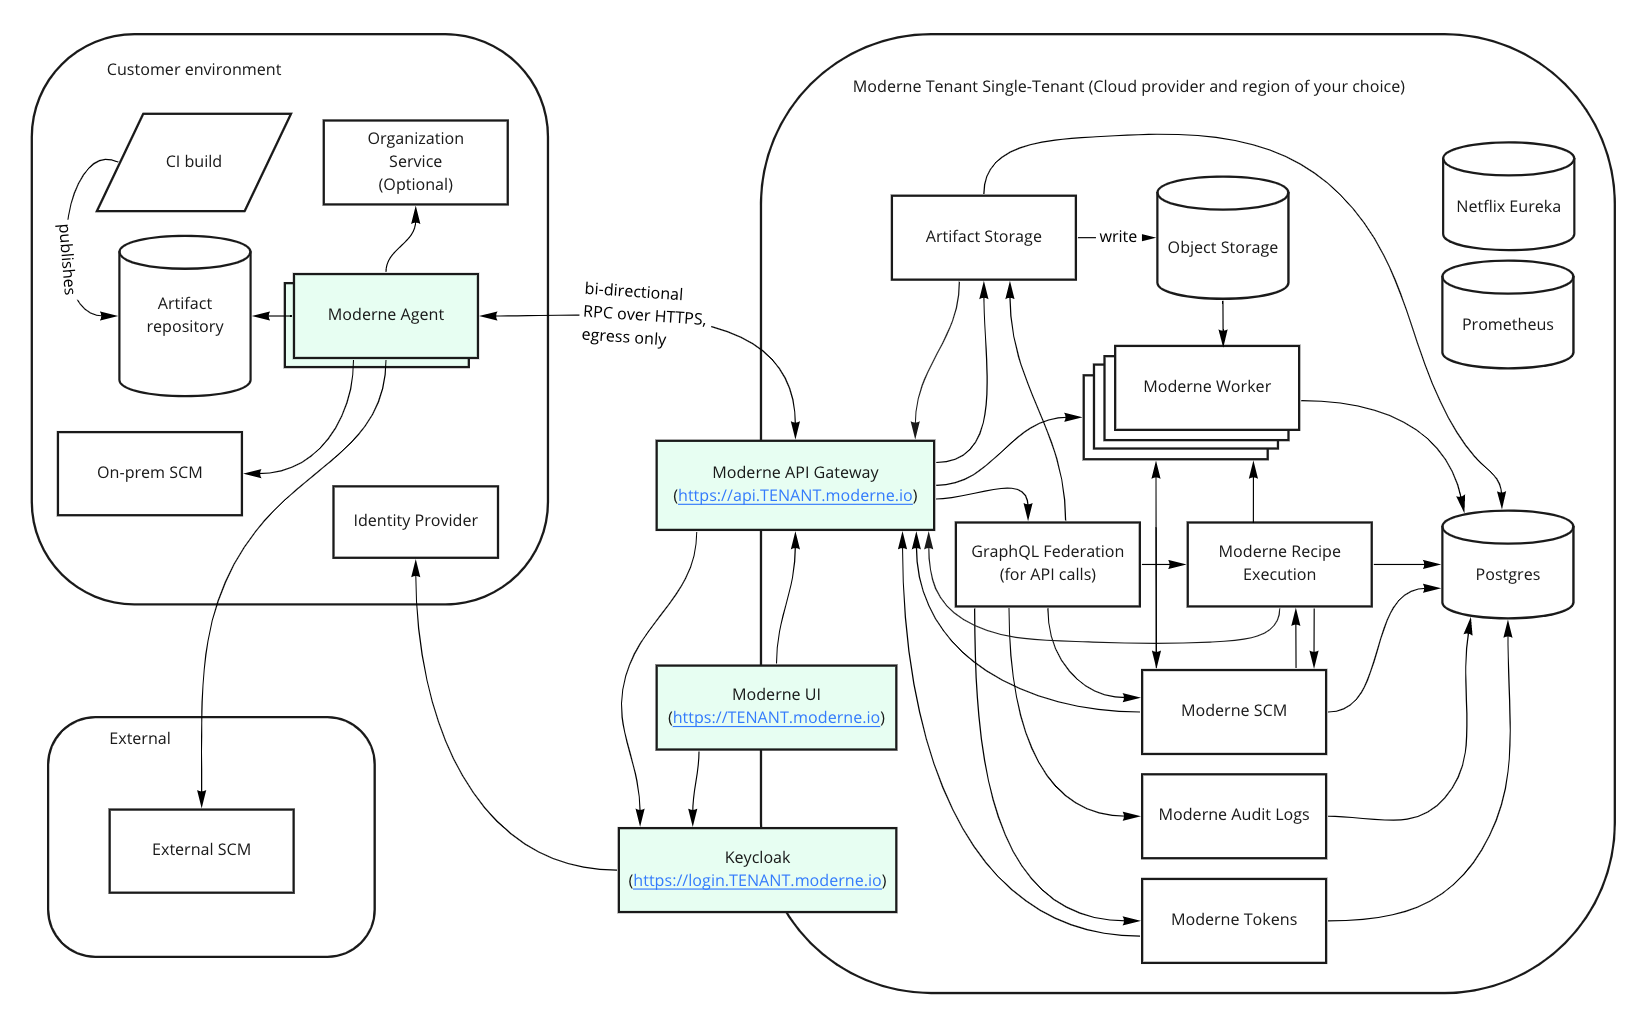
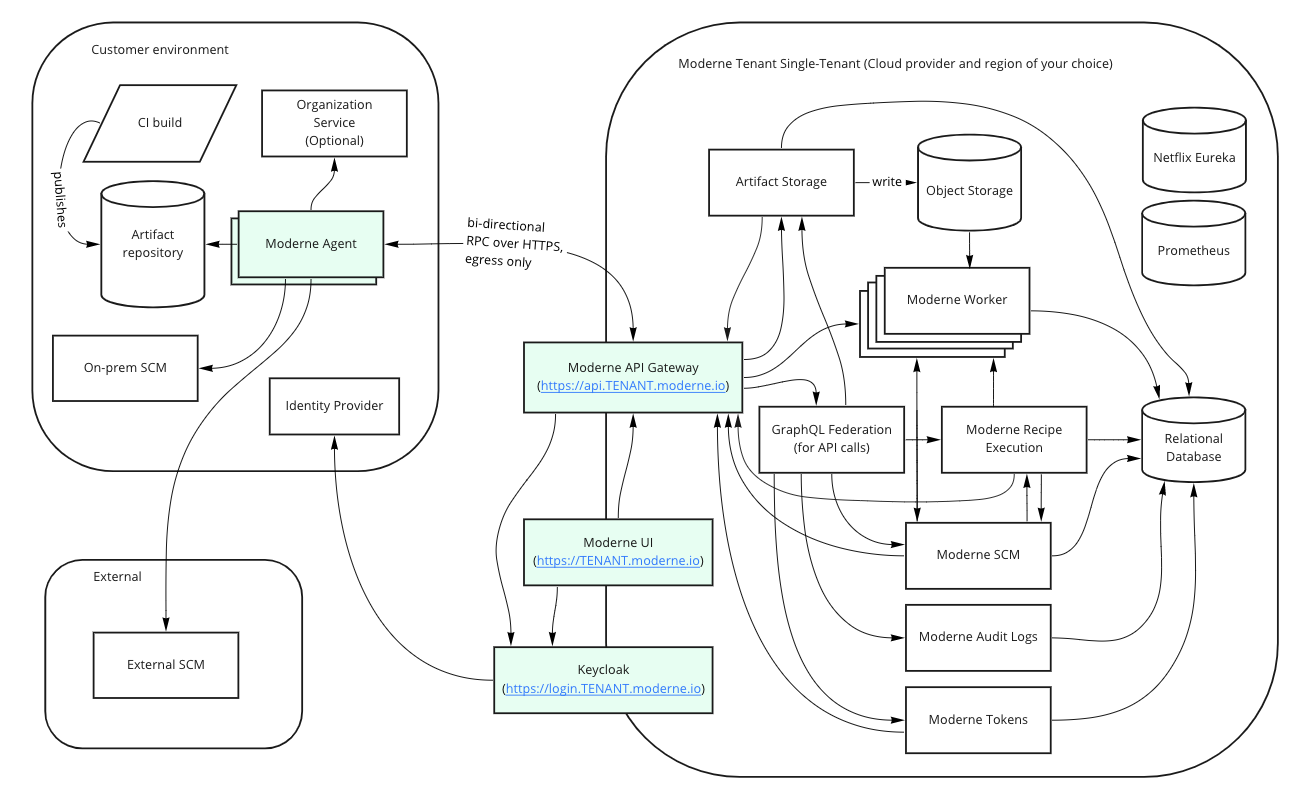
Update postgres to database

diff --git a/references/architecture.md b/references/architecture.md
@@ -28,7 +28,7 @@ Below is a high-level architecture diagram that shows the flow of data between M
 
 In order for Moderne to know the current state of your code, artifacts will need to be generated that contain a serialized representation of your code's [LSTs](/concepts/lossless-semantic-trees.md). These artifacts must be put inside an artifact repository that the [Moderne agent](#moderne-agent) has access to. 
 
-There are two ways to generate artifacts. You can:
+There are currently two ways to generate artifacts. You can:
 
 1. Set up a [Jenkins ingest pipeline](https://github.com/moderneinc/enterprise-jenkins-ingest#readme) that runs at scheduled intervals to build and publish artifacts for the repositories you specify in a CSV (**recommended**)
     * Easier to scale and does not require you to modify the build process
@@ -156,7 +156,7 @@ As configuring identity providers between services can be quite complex, the set
 
 The Moderne artifact storage service is responsible for receiving pre-encrypted LST artifacts and recipe JARs and storing them in a private object store depending on the cloud provider you use ([Azure Blob Storage](https://learn.microsoft.com/en-us/azure/storage/blobs/), [Google Cloud Storage](https://cloud.google.com/storage), or [AWS S3](https://aws.amazon.com/pm/serv-s3/)).
 
-The artifact storage service will also write high-level information about where to find these artifacts and when they were last updated to Postgres so that the [Moderne workers](#moderne-worker) know where to go to obtain the artifacts they need.
+The artifact storage service will also write high-level information about where to find these artifacts and when they were last updated to our relationship database (RDS) so that the [Moderne workers](#moderne-worker) know where to go to obtain the artifacts they need.
 
 **Setup requirements**
 * None
@@ -174,16 +174,16 @@ GraphQL federation uses [Netflix Eureka](https://github.com/Netflix/eureka) to l
 
 You can think of the Moderne recipe execution service as a manager that helps assign work, direct people on where to go, and provide high-level information. It knows all of the recipes that can be run and it chooses which [workers](#moderne-worker) are responsible for which repositories. 
 
-When a new recipe command comes in (such as run `X` recipe on `Y` repositories with `Z` options), the recipe execution service takes that command and stores all of the details in a Postgres table that acts as a queue. Whenever a [worker](#moderne-worker) is free, it will query the Postgres table and look for commands that haven't been started (for the repositories the worker is responsible for).
+When a new recipe command comes in (such as run `X` recipe on `Y` repositories with `Z` options), the recipe execution service takes that command and stores all of the details in a database table that acts as a queue. Whenever a [worker](#moderne-worker) is free, it will query the database table and look for commands that haven't been started (for the repositories the worker is responsible for).
 
-The recipe execution service is also responsible for providing the results of a recipe run by either calling Postgres to see what high-level information it has or by calling the worker directly to get the full results (diffs and data tables).
+The recipe execution service is also responsible for providing the results of a recipe run by either calling the database to see what high-level information it has or by calling the worker directly to get the full results (diffs and data tables).
 
 **Setup requirements**
 * None
 
 ### Moderne worker
 
-Moderne workers are responsible for running recipes and keeping their results. They interact with the [Moderne recipe execution service](#moderne-recipe-execution-re) to coordinate which repositories they should run recipes for before querying Postgres for a recipe to run. When a worker is stopped, all of the data and results from the recipes it has run are destroyed. If you need that data, you'll need to re-run the recipe again.
+Moderne workers are responsible for running recipes and keeping their results. They interact with the [Moderne recipe execution service](#moderne-recipe-execution-re) to coordinate which repositories they should run recipes for before querying the database for a recipe to run. When a worker is stopped, all of the data and results from the recipes it has run are destroyed. If you need that data, you'll need to re-run the recipe again.
 
 Worker instances are scaled horizontally in direct response to more code being ingested into the platform.
 
@@ -212,7 +212,7 @@ Authentication and authorization decisions are made in real-time to ensure that 
 
 ### Moderne audit log
 
-The Moderne audit log retrieves audit logs from a Postgres database for presentation to privileged users via the [API gateway](#moderne-api-gateway).
+The Moderne audit log retrieves audit logs from our relational database for presentation to privileged users via the [API gateway](#moderne-api-gateway).
 
 Audit logs can be retrieved via a paginated GraphQL API or via a REST call that responds in the CEF format.
 
